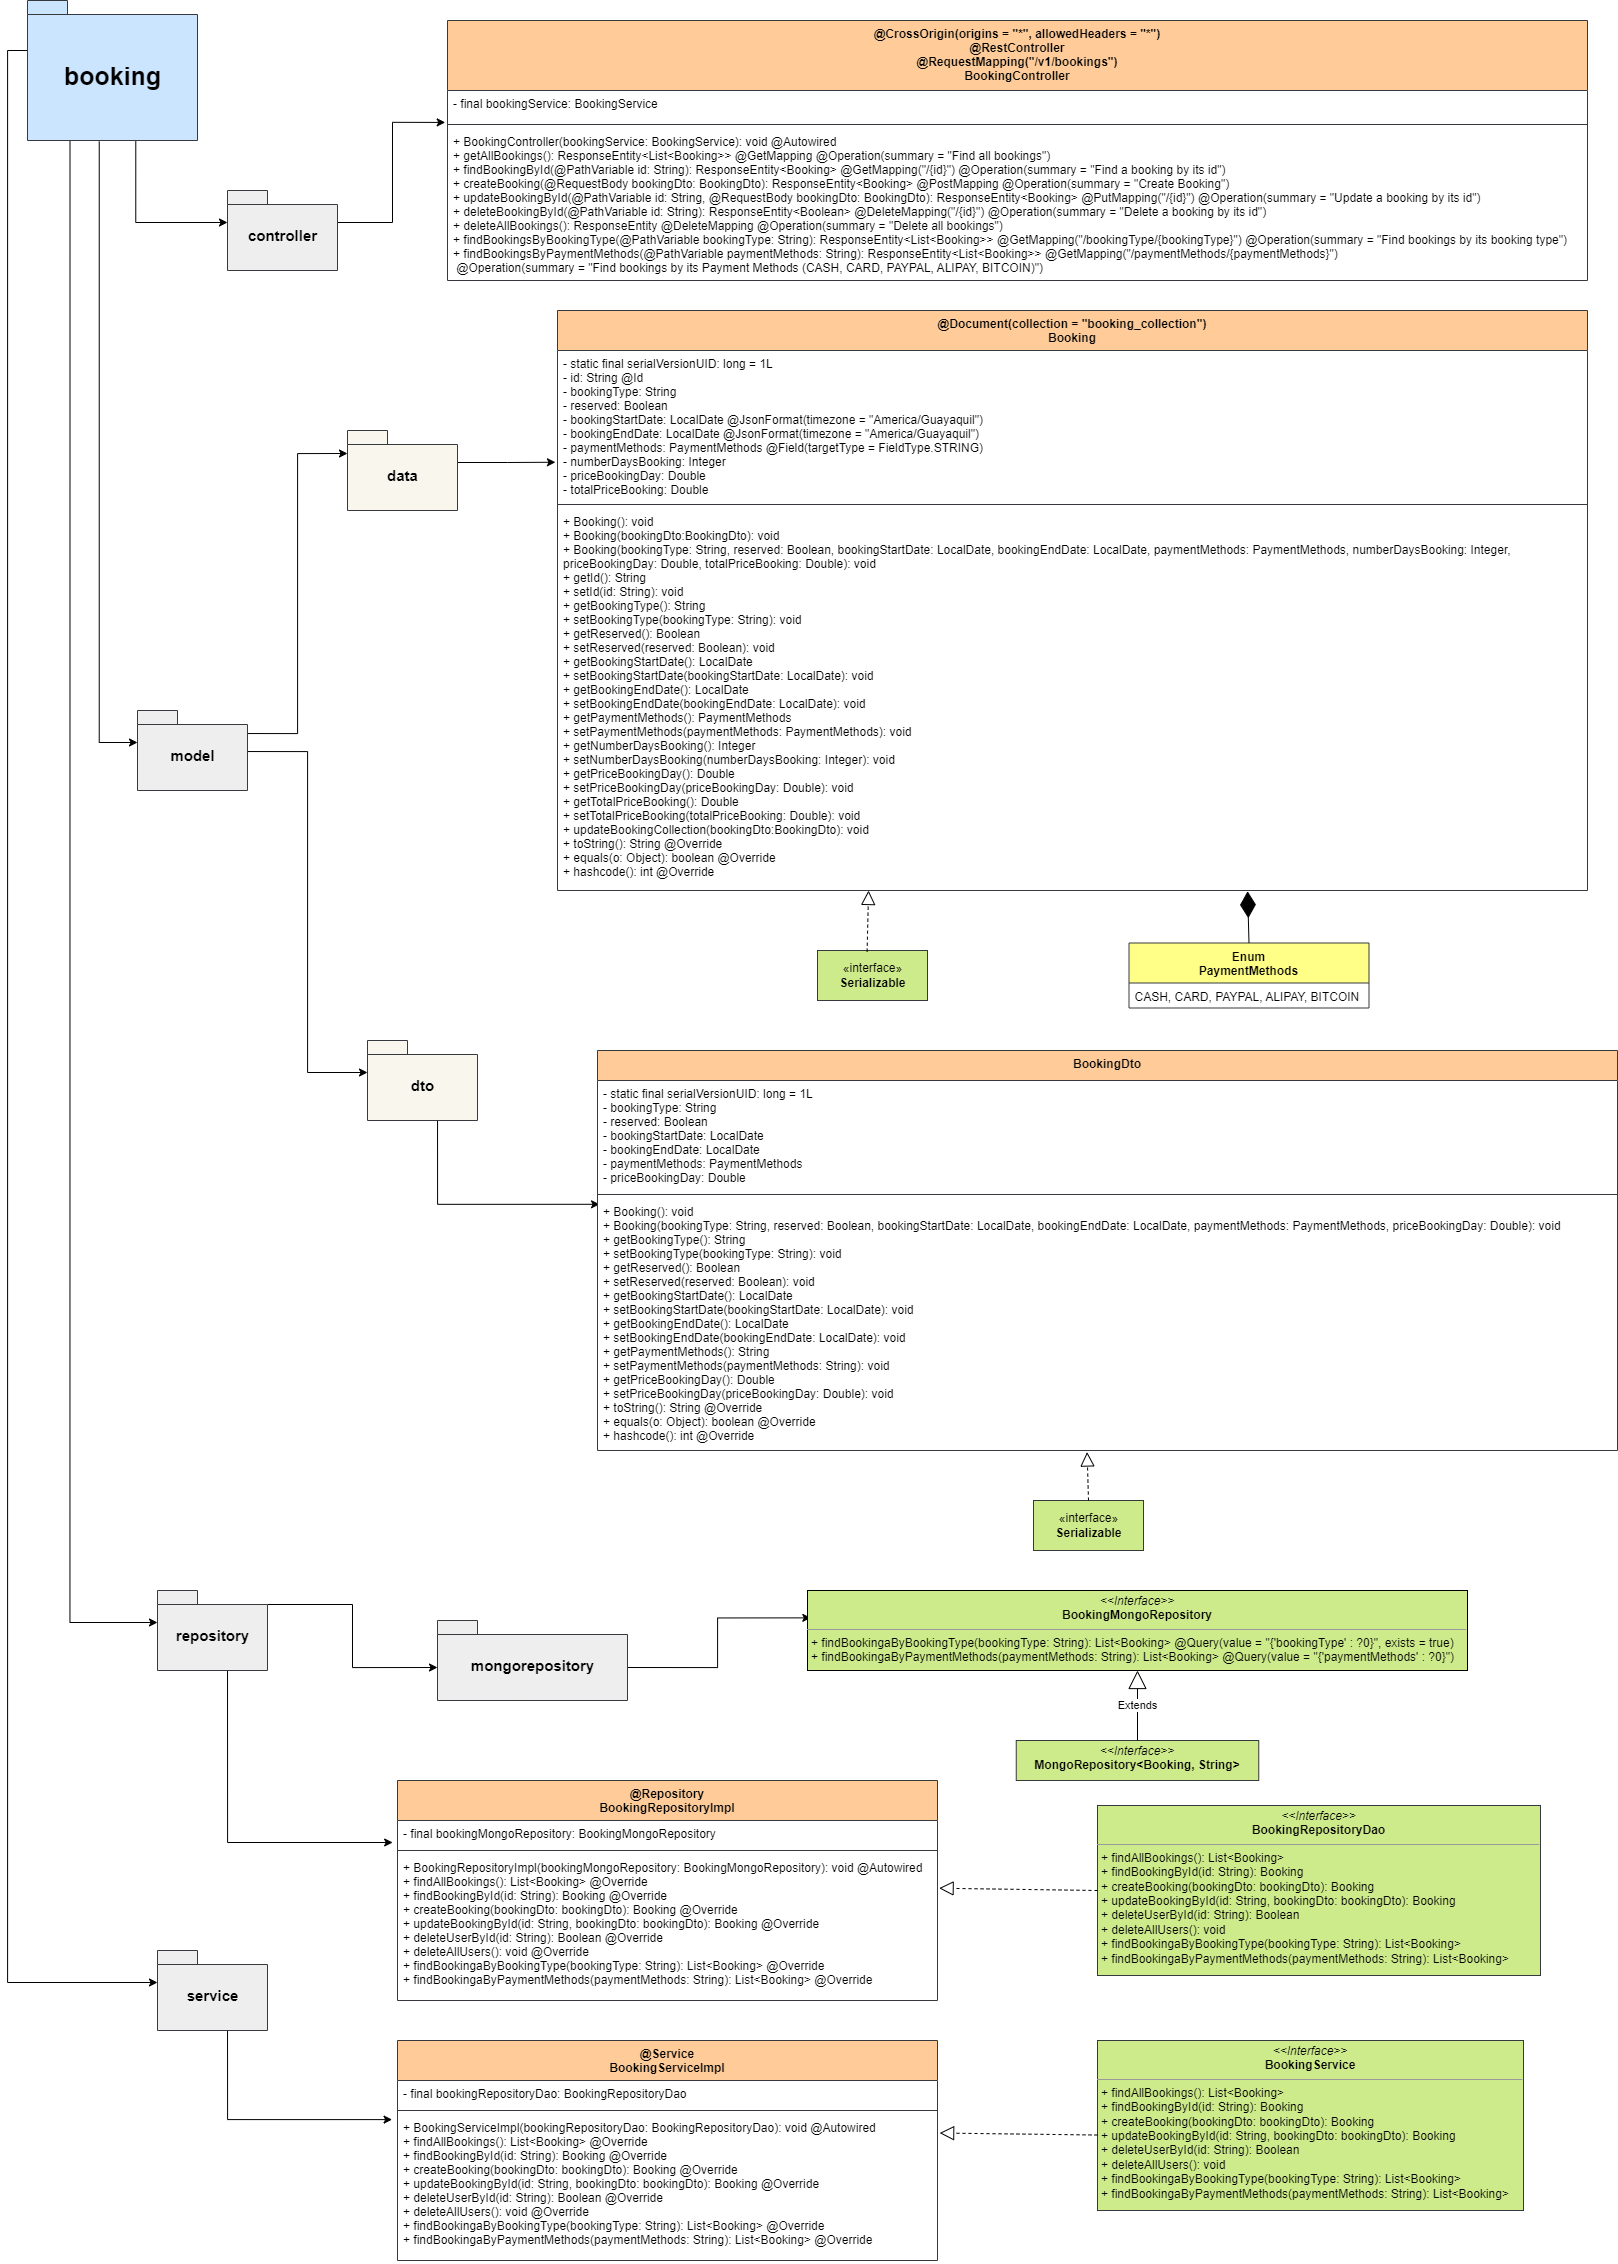
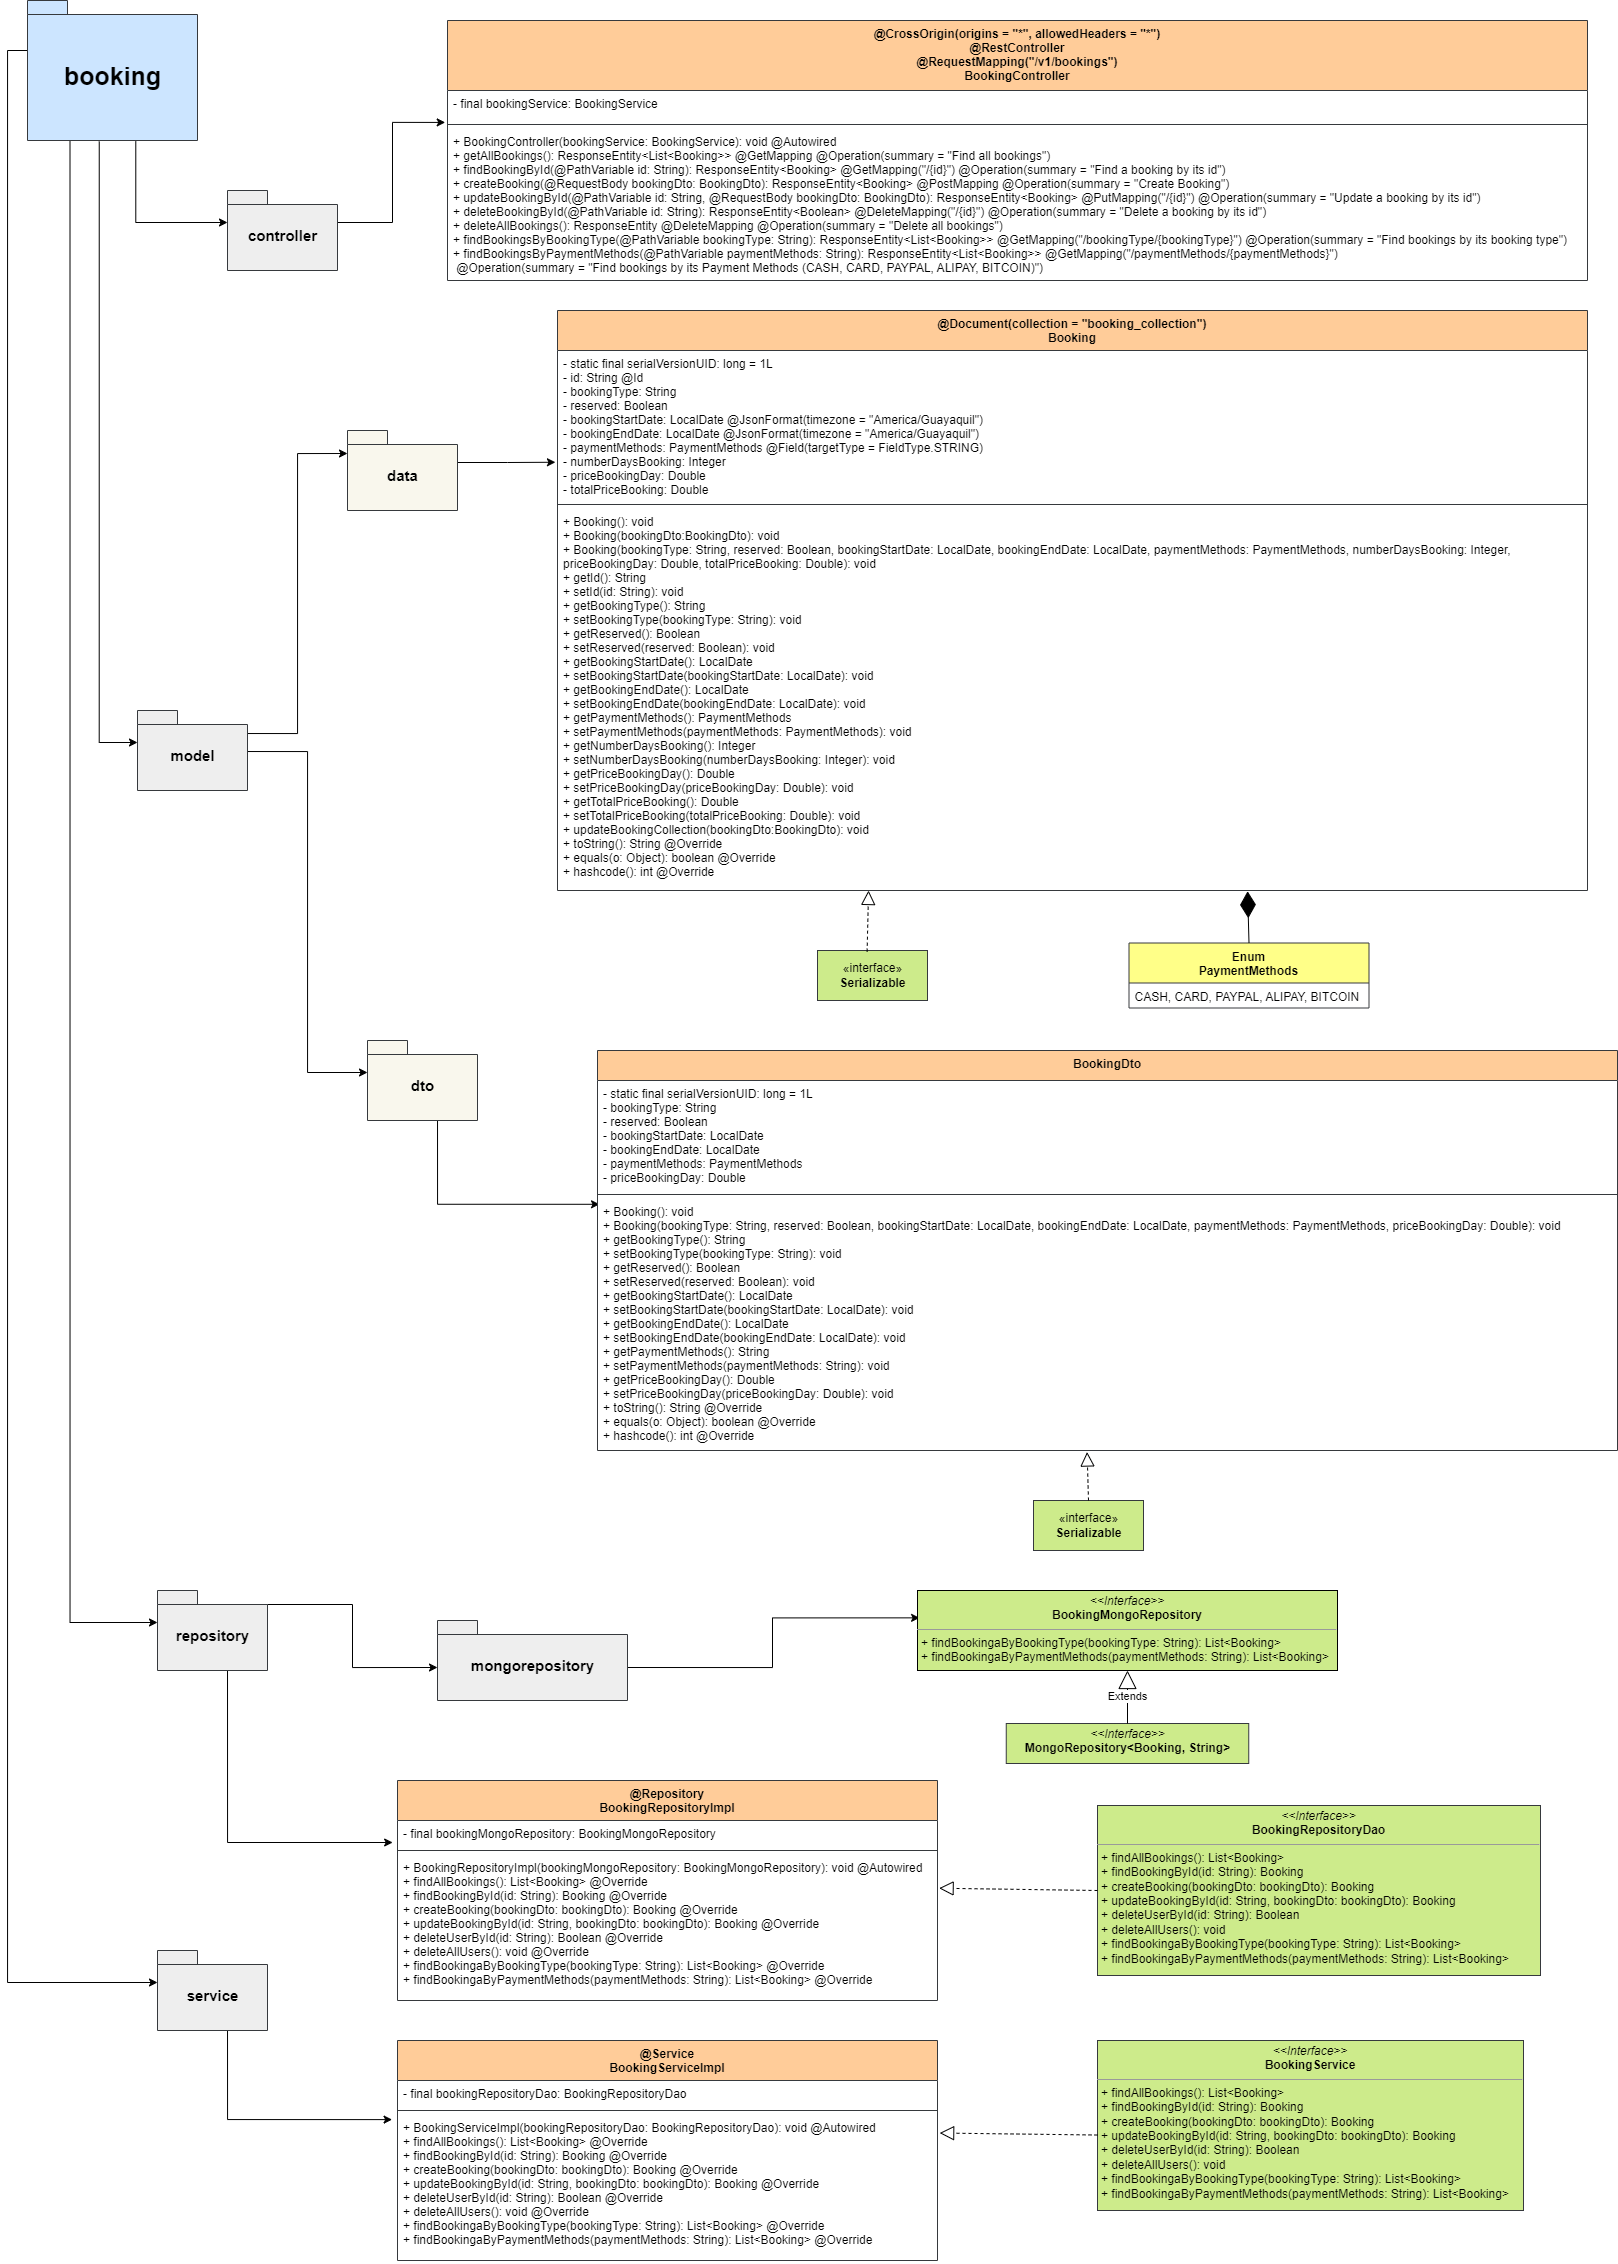
Small modifications to the images and removal of log properties.

Changed region(s): [[0.4944, 0.6802, 0.9271, 0.8039]]

diff --git a/src/main/java/com/davidorellana/bookingsystemrestapi/user/repository/mongorepository/UserMongoRepository.java b/src/main/java/com/davidorellana/bookingsystemrestapi/user/repository/mongorepository/UserMongoRepository.java
@@ -2,19 +2,15 @@ package com.davidorellana.bookingsystemrestapi.user.repository.mongorepository;
 
 import com.davidorellana.bookingsystemrestapi.user.model.data.User;
 import org.springframework.data.mongodb.repository.MongoRepository;
-import org.springframework.data.mongodb.repository.Query;
 
 import java.util.List;
 import java.util.Optional;
 
 public interface UserMongoRepository extends MongoRepository<User, String> {
 
-   // @Query(value = "{'name' : ?0, 'lastName' : ?1}", exists = true)
     List<User> findUserByNameAndLastName(String name, String lastName);
 
-   // @Query(value = "{'email' : ?0}")
     Optional<User> findUserByEmail(String email);
 
-   // @Query(value = "{'identityCard' : ?0}")
     Optional<User> findUserByIdentityCard(String identityCard);
 }

diff --git a/src/main/java/com/davidorellana/bookingsystemrestapi/swagger/SwaggerConfiguration.java b/src/main/java/com/davidorellana/bookingsystemrestapi/swagger/SwaggerConfiguration.java
@@ -49,7 +49,7 @@ public class SwaggerConfiguration {
     private ApiInfo apiInfo() {
         return new ApiInfo(
                 "Documentation - Integrator Project: Booking System Rest Api",
-                "Booking System Rest Api Project: Implementation of User, Booking and Authentication microservices, with implementation to a NoSql MongoDB database, JWT and Security database, Unit Test.",
+                "Booking System Rest Api Project: Implementation of User, Booking and Authentication microservices, Cloud data persistence with MongoDB, Jwt y Spring Security, Unit Tes and Mockito y more.",
                 "v1.0.0",
                 "",
                 new Contact("Luis David Orellana", "https://www.linkedin.com/in/luisdavidorellana/", ""),

diff --git a/src/main/java/com/davidorellana/bookingsystemrestapi/booking/repository/mongorepository/BookingMongoRepository.java b/src/main/java/com/davidorellana/bookingsystemrestapi/booking/repository/mongorepository/BookingMongoRepository.java
@@ -2,15 +2,12 @@ package com.davidorellana.bookingsystemrestapi.booking.repository.mongorepositor
 
 import com.davidorellana.bookingsystemrestapi.booking.model.data.Booking;
 import org.springframework.data.mongodb.repository.MongoRepository;
-import org.springframework.data.mongodb.repository.Query;
 
 import java.util.List;
 
 public interface BookingMongoRepository extends MongoRepository<Booking, String> {
 
-    //@Query(value = "{'bookingType' : ?0}", exists = true)
     List<Booking> findBookingsByBookingType(String bookingType);
 
-    //@Query(value = "{'paymentMethods' : ?0}", exists = true)
     List<Booking> findBookingsByPaymentMethods(String paymentMethods);
 }
